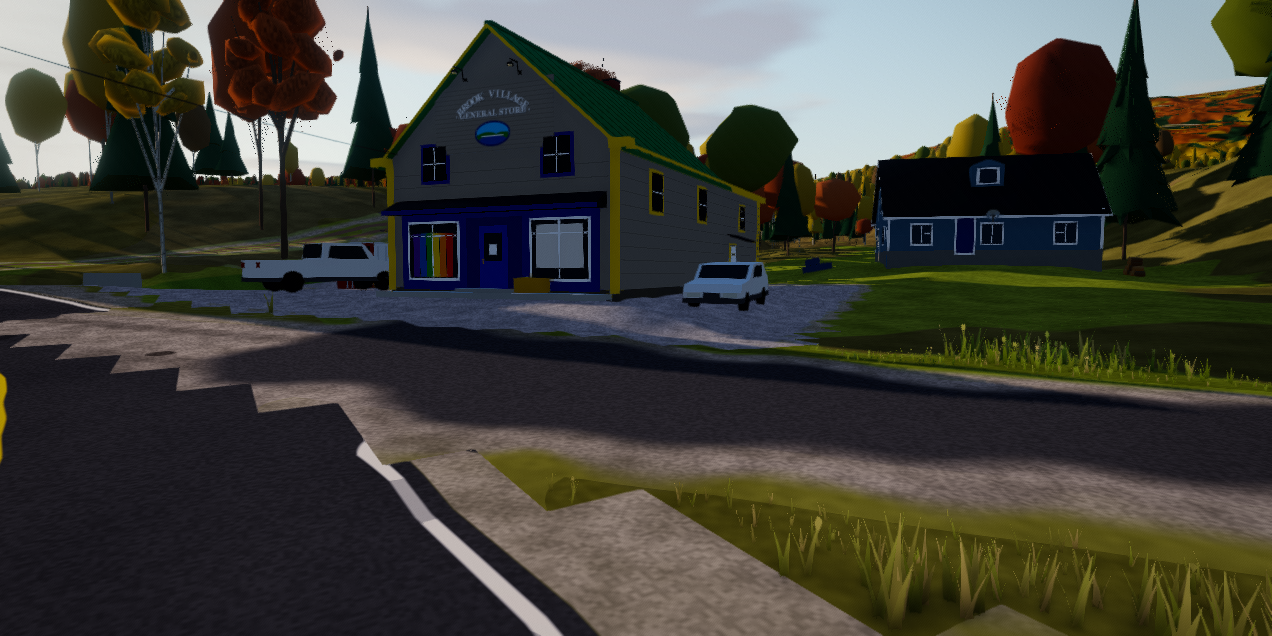
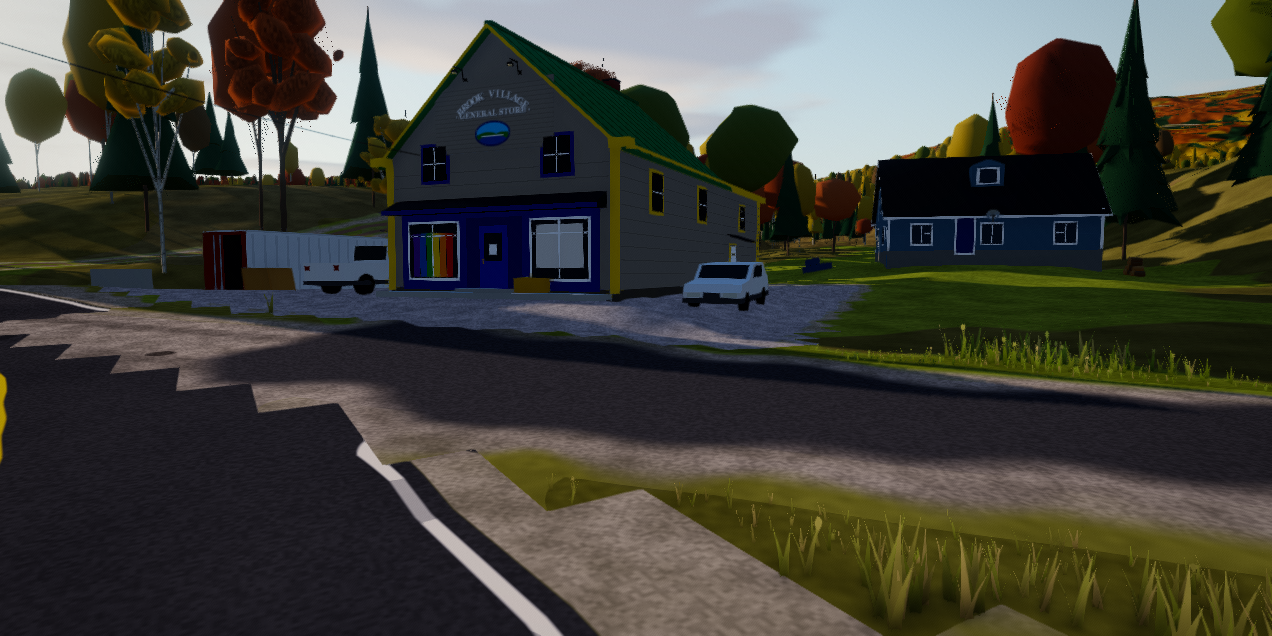
Keep Brook Village lot clear of Stream 397, fix service-drop anchors, and strengthen checks

diff --git a/web/src/brook-village-site.ts b/web/src/brook-village-site.ts
@@ -80,15 +80,10 @@ function makeFrame(building: Building, village: readonly [number, number]): Loca
 const STORE_PAD: P[] = [[-9.6, -4.4], [9.8, -4.4], [9.8, 5.2], [-9.6, 5.2]];
 const STORE_PAD_MARGIN = 2.6;
 
-/** Gravel parking lot west of the store, front apron toward the highway junction, and narrow east pull-in strip. */
+/** Gravel parking lot west of the store (trimmed clear of Stream 397), front apron and east pull-in strip. */
 export const STORE_GRAVEL: P[] = [
-  [-10.2, -9.2], [13.2, -9.2], [13.2, 19.2], [10.0, 21.5],
-  [-9.5, 18.8], [-10.2, 5.2],
-];
-
-/** Small mown grass verge west of the shipping container. */
-export const STORE_GRASS: P[] = [
-  [-10.5, 17.5], [11.5, 18.5], [10.5, 24.0], [-10.5, 23.0],
+  [-10.2, -9.2], [13.2, -9.2], [13.2, 18.8], [9.8, 18.6],
+  [4.0, 16.0], [-2.0, 12.6], [-9.6, 9.5], [-10.2, 5.2],
 ];
 
 // ---- Church site polygons in church local (u, v) metres ----
@@ -136,6 +131,13 @@ const TRACK_202_MAP: readonly P[] = [
   [631481.50, 5101172.75], [631478.96, 5101175.83], [631476.29, 5101178.78], [631473.49, 5101181.62],
   [631470.62, 5101184.39],
 ];
+/** Mapped brook (Stream 397, half-width 0.63 m) running along the west edge of the store lot. */
+const BROOK_397_MAP: readonly P[] = [
+  [631497.6, 5101197.0], [631498.4, 5101194.0], [631500.6, 5101191.0],
+  [631502.7, 5101186.0], [631503.1, 5101181.0], [631504.9, 5101176.0],
+  [631505.1, 5101167.0], [631506.0, 5101163.0], [631505.9, 5101160.0],
+  [631505.0, 5101157.0],
+];
 
 function polylineDist(pts: readonly P[], x: number, z: number): number {
   let best = Infinity;
@@ -160,9 +162,9 @@ export interface BrookParkedSpot {
 
 /** Generic random parked vehicles (no plates, badges or people), leaving open drive-in/turnaround lanes. */
 export const BROOK_PARKED_SPOTS: readonly BrookParkedSpot[] = [
-  // Store west gravel parking lot (2 vehicles parked clear of the drive-in lane and container).
-  { place: 'store', u: -3.5, v: 9.8, du: 1, dv: 0.04, type: 1 },
-  { place: 'store', u: 7.4, v: 9.6, du: -0.95, dv: -0.32, type: 2 },
+  // Store west gravel parking lot (2 vehicles parked clear of the drive-in lane, brook and container).
+  { place: 'store', u: -5.2, v: 7.6, du: 1, dv: 0.04, type: 1 },
+  { place: 'store', u: 6.4, v: 7.7, du: -1, dv: -0.05, type: 2 },
   // Store east pull-in apron beside the storefront (1 compact car clear of Lake Ainslie Chapel Rd).
   { place: 'store', u: 5.5, v: -6.4, du: 1, dv: -0.05, type: 0 },
   // Church east gravel turnaround edge (1 car parked neatly clear of front steps, ramp and U-turn path).
@@ -183,6 +185,7 @@ export class BrookVillageSite implements Site {
   private hwy252World: P[];
   private chapelRdWorld: P[];
   private track202World: P[];
+  private brook397World: P[];
 
   /** Find both Brook Village surveyed boxes, or null if either is missing or moved/turned beyond tolerance. */
   static find(list: readonly Building[]): BrookVillageBoxes | null {
@@ -212,6 +215,7 @@ export class BrookVillageSite implements Site {
     this.hwy252World = HWY_252_MAP.map(toWorld);
     this.chapelRdWorld = CHAPEL_RD_MAP.map(toWorld);
     this.track202World = TRACK_202_MAP.map(toWorld);
+    this.brook397World = BROOK_397_MAP.map(toWorld);
 
     const pts = [
       this.store.world(-12.5, -11.0), this.store.world(14.5, -11.0),
@@ -246,10 +250,15 @@ export class BrookVillageSite implements Site {
       || polylineDist(this.track202World, x, z) < 1.5 + extra;
   }
 
+  /** True when (x, z) lies within Stream 397's bed or bank corridor west of the store lot. */
+  private nearBrook(x: number, z: number, extra: number): boolean {
+    return polylineDist(this.brook397World, x, z) < 0.63 + extra;
+  }
+
   private isOpenGround(x: number, z: number): boolean {
     const s = this.store.local(x, z);
-    if (s.u >= -11.0 && s.u <= 14.0 && s.v >= -10.0 && s.v <= 24.5) {
-      if (depth(STORE_GRAVEL, s.u, s.v) > -0.5 || depth(STORE_GRASS, s.u, s.v) > -0.5) return true;
+    if (s.u >= -11.0 && s.u <= 14.0 && s.v >= -10.0 && s.v <= 20.0) {
+      if (!this.nearBrook(x, z, 2.2) && depth(STORE_GRAVEL, s.u, s.v) > -0.5) return true;
     }
     const c = this.church.local(x, z);
     if (c.u >= -16.0 && c.u <= 24.5 && c.v >= -48.0 && c.v <= 25.5) {
@@ -258,19 +267,19 @@ export class BrookVillageSite implements Site {
     return false;
   }
 
-  /** Re-aim service drops onto the hand-built store front-west upper wall and church front-west eave. */
+  /** Re-aim service drops onto exposed pole-facing walls: store front gable (pole 30:2) and church NE wall (pole 30:0). */
   adjustProps<T extends {
     serviceDrops?: Array<{ building: number; x: number; y: number; height: number; ground: number | null; groundX: number; groundY: number }>;
   }>(data: T): T {
     if (!Array.isArray(data.serviceDrops)) return data;
-    const [sx, sy] = this.store.map(7.8, 4.6);
-    const [cx, cy] = this.church.map(11.8, -0.8);
+    const [sx, sy] = this.store.map(9.05, 3.4);
+    const [cx, cy] = this.church.map(11.9, 11.85);
     const serviceDrops = data.serviceDrops.map((d) => {
       if (d.building === BROOK_STORE_BUILDING) {
-        return { ...d, x: sx, y: sy, height: 4.9, ground: this.store.level, groundX: this.store.bx, groundY: this.store.by };
+        return { ...d, x: sx, y: sy, height: 4.75, ground: this.store.level, groundX: this.store.bx, groundY: this.store.by };
       }
       if (d.building === BROOK_CHURCH_BUILDING) {
-        return { ...d, x: cx, y: cy, height: 5.1, ground: this.church.level, groundX: this.church.bx, groundY: this.church.by };
+        return { ...d, x: cx, y: cy, height: 4.55, ground: this.church.level, groundX: this.church.bx, groundY: this.church.by };
       }
       return d;
     });
@@ -285,11 +294,11 @@ export class BrookVillageSite implements Site {
     };
     const cv = CHURCH_CENTER_V;
     return [
-      // Store main 2-storey gable (+ chimney), rear extension and west shipping container.
+      // Store main 2-storey gable (+ chimney), rear extension, west shipping container and curb block.
       mk(this.store, -2.2, 9.4, -4.3, 5.1, 4.75, 9.55),
       mk(this.store, -9.2, -1.9, -4.1, 4.9, 4.75, 6.65),
-      mk(this.store, -8.5, 0.1, 14.6, 17.6, 2.75, 2.75, this.store.level + 0.35),
-      mk(this.store, 9.1, 10.5, 18.3, 20.9, 0.85, 0.85, this.store.level + 0.25),
+      mk(this.store, -0.3, 8.3, 13.4, 16.4, 2.75, 2.75, this.store.level + 0.35),
+      mk(this.store, 9.9, 11.3, 16.2, 18.8, 0.85, 0.85, this.store.level + 0.25),
       // Church nave (+ rear finial cross), cross-gable wings, front portico, steeple + cross, flagpole and lawn signboard.
       mk(this.church, -11.0, 13.0, cv - 6.8, cv + 6.8, 5.3, 12.8),
       mk(this.church, -9.8, -1.2, cv - 9.7, cv + 9.7, 4.5, 8.7),
@@ -320,16 +329,14 @@ export class BrookVillageSite implements Site {
   }
 
   surface(x: number, z: number, _ground?: number, level?: number): { dist: number; half: number; kind: number } | null {
-    // Paint gravel lots and church lawn only on L8 so L5-L7 roads and canopy hull stay untouched.
+    // Paint gravel lots and church lawn only on L8 so L5-L7 roads, canopy hull and Stream 397 stay untouched.
     if (level !== undefined && level <= 7) return null;
-    if (this.nearRoad(x, z, 2.1)) return null;
+    if (this.nearRoad(x, z, 2.1) || this.nearBrook(x, z, 3.6)) return null;
 
     const s = this.store.local(x, z);
-    if (s.u >= -11.5 && s.u <= 14.5 && s.v >= -10.5 && s.v <= 25.0) {
+    if (s.u >= -11.5 && s.u <= 14.5 && s.v >= -10.5 && s.v <= 20.0) {
       const dg = depth(STORE_GRAVEL, s.u, s.v);
       if (dg > -0.6) return { dist: Math.max(6.5, 10 - dg), half: 10, kind: GRAVEL };
-      const dl = depth(STORE_GRASS, s.u, s.v);
-      if (dl > -EDGE) return { dist: Math.max(6.5, 10 - dl), half: 10, kind: GRASS };
     }
 
     const c = this.church.local(x, z);

diff --git a/web/src/brook-village.ts b/web/src/brook-village.ts
@@ -81,8 +81,8 @@ const MULCH = hex(0x4c3627);
 // ---- Exported footprint constants (used by node & browser checks) ----
 export const STORE_MAIN = { u0: -2.0, u1: 9.0, v0: -3.9, v1: 4.7, eave: 4.65, ridge: 8.45 };
 export const STORE_REAR = { u0: -9.0, u1: -2.0, v0: -3.7, v1: 4.5, eave: 4.65, ridge: 6.35 };
-export const STORE_CONTAINER = { u0: -8.2, u1: -0.2, v0: 14.8, v1: 17.4, height: 2.6 };
-export const STORE_CURB = { u: 9.8, v: 19.6 };
+export const STORE_CONTAINER = { u0: 0.0, u1: 8.0, v0: 13.6, v1: 16.2, height: 2.6 };
+export const STORE_CURB = { u: 10.6, v: 17.5 };
 
 const CV = CHURCH_CENTER_V;
 export const CHURCH_NAVE = { u0: -10.5, u1: 12.5, v0: CV - 6.3, v1: CV + 6.3, eave: 5.15, ridge: 11.6 };
